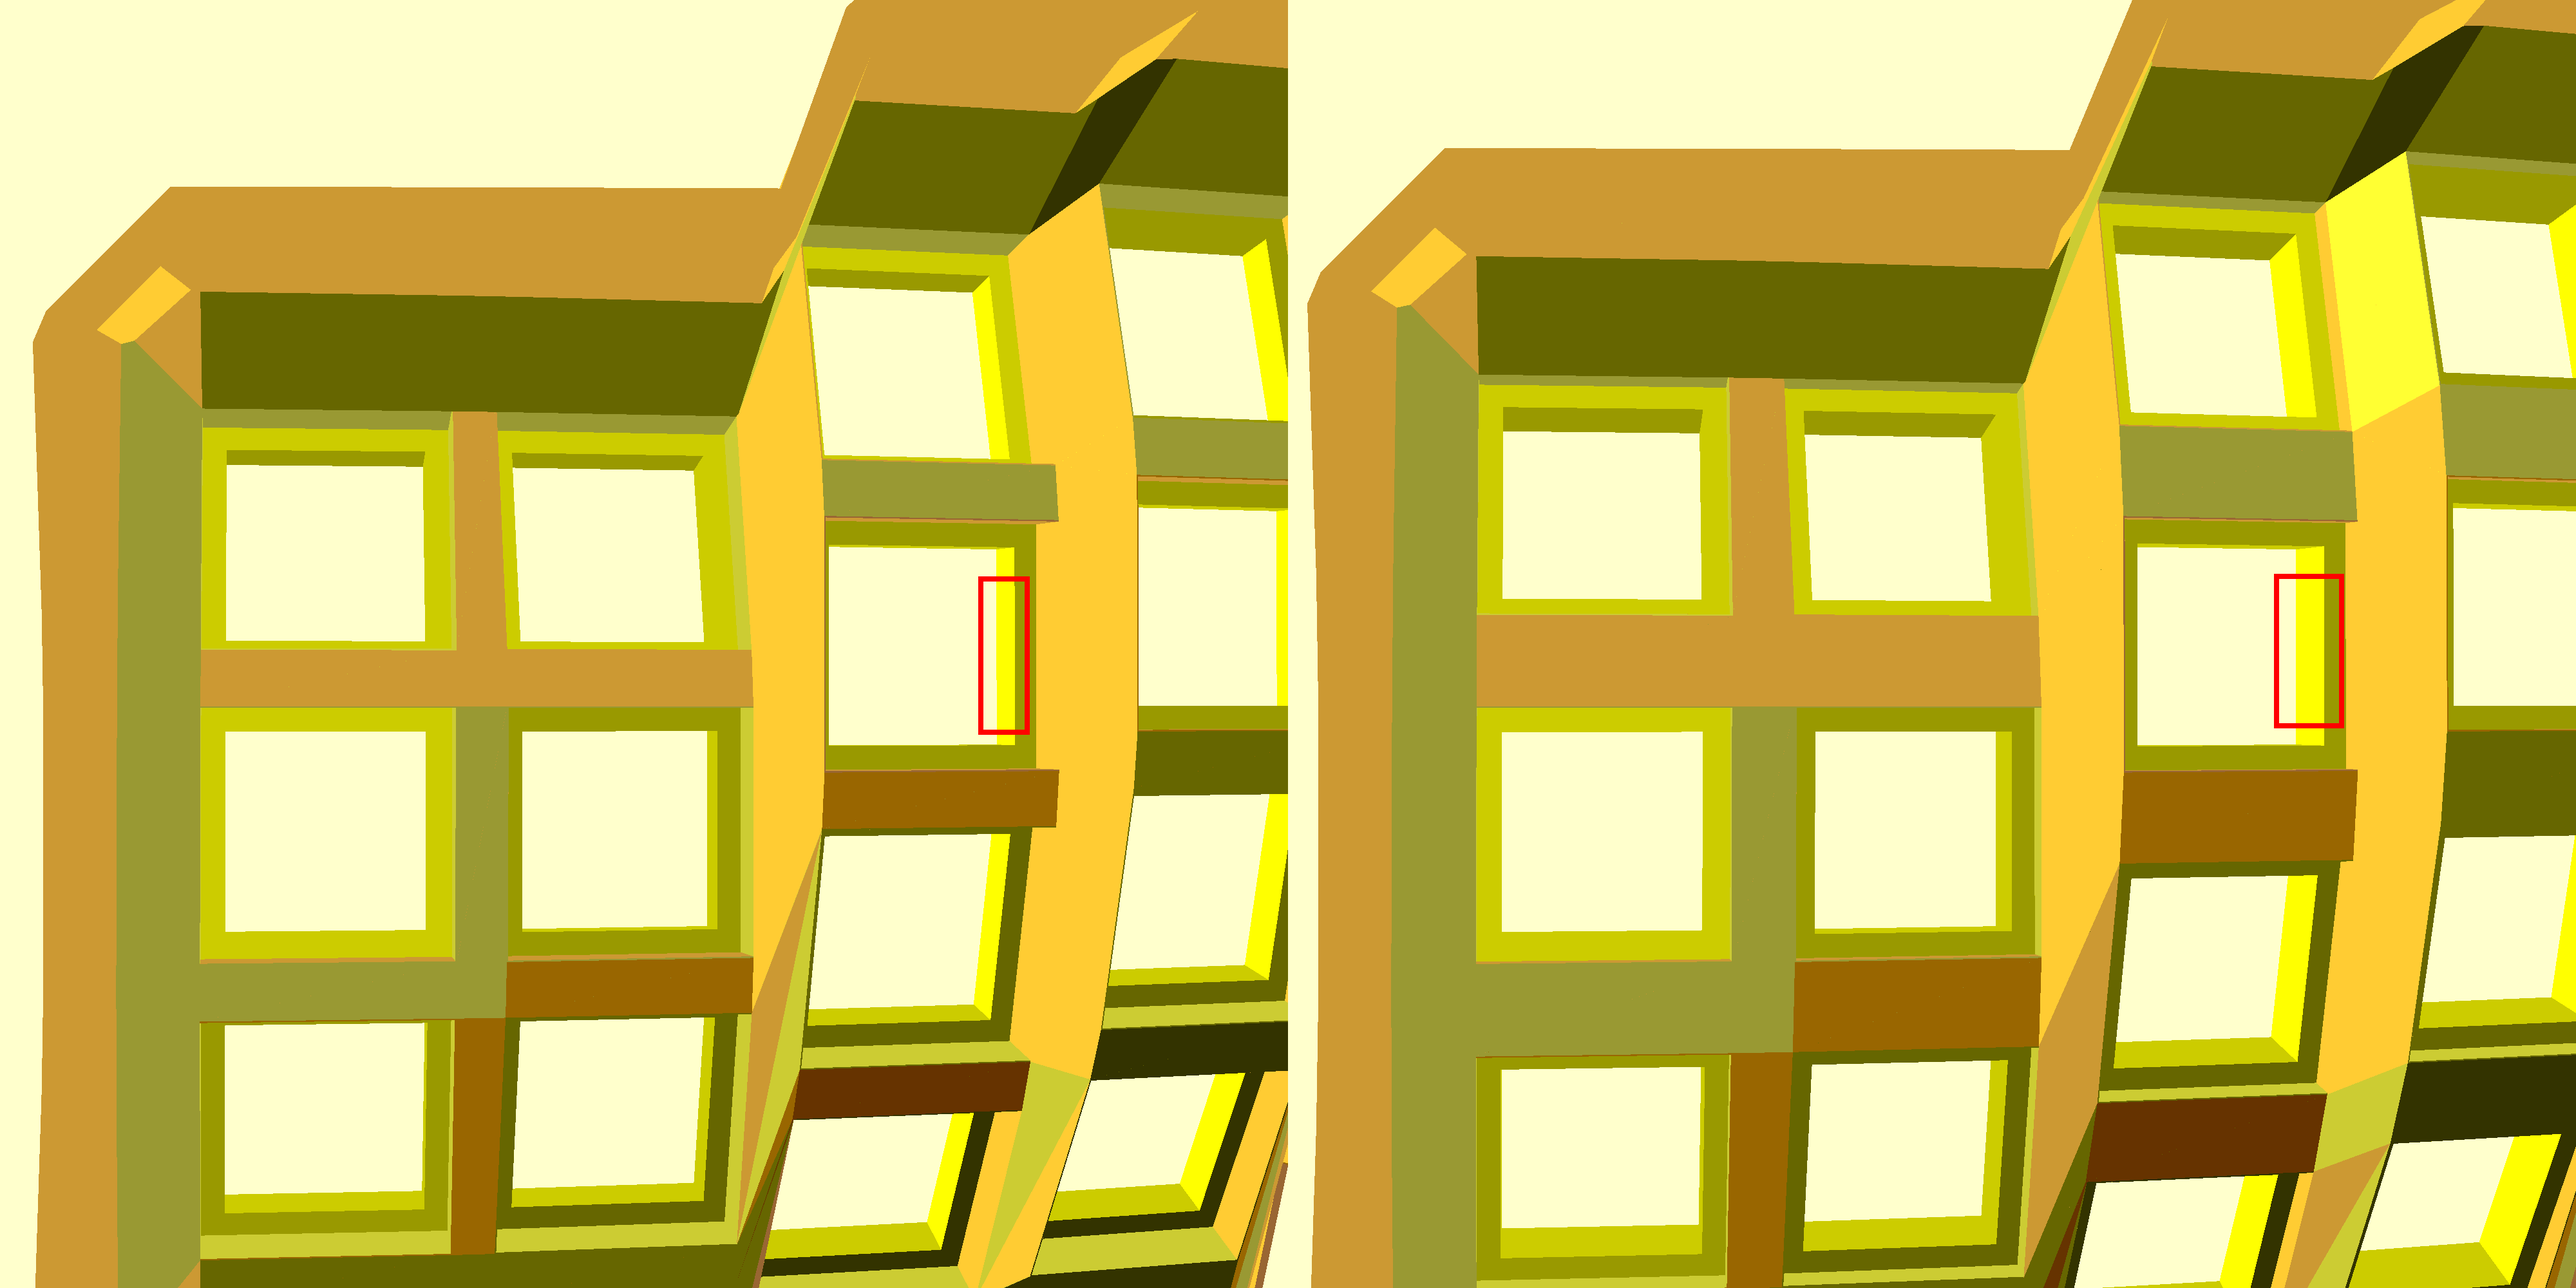
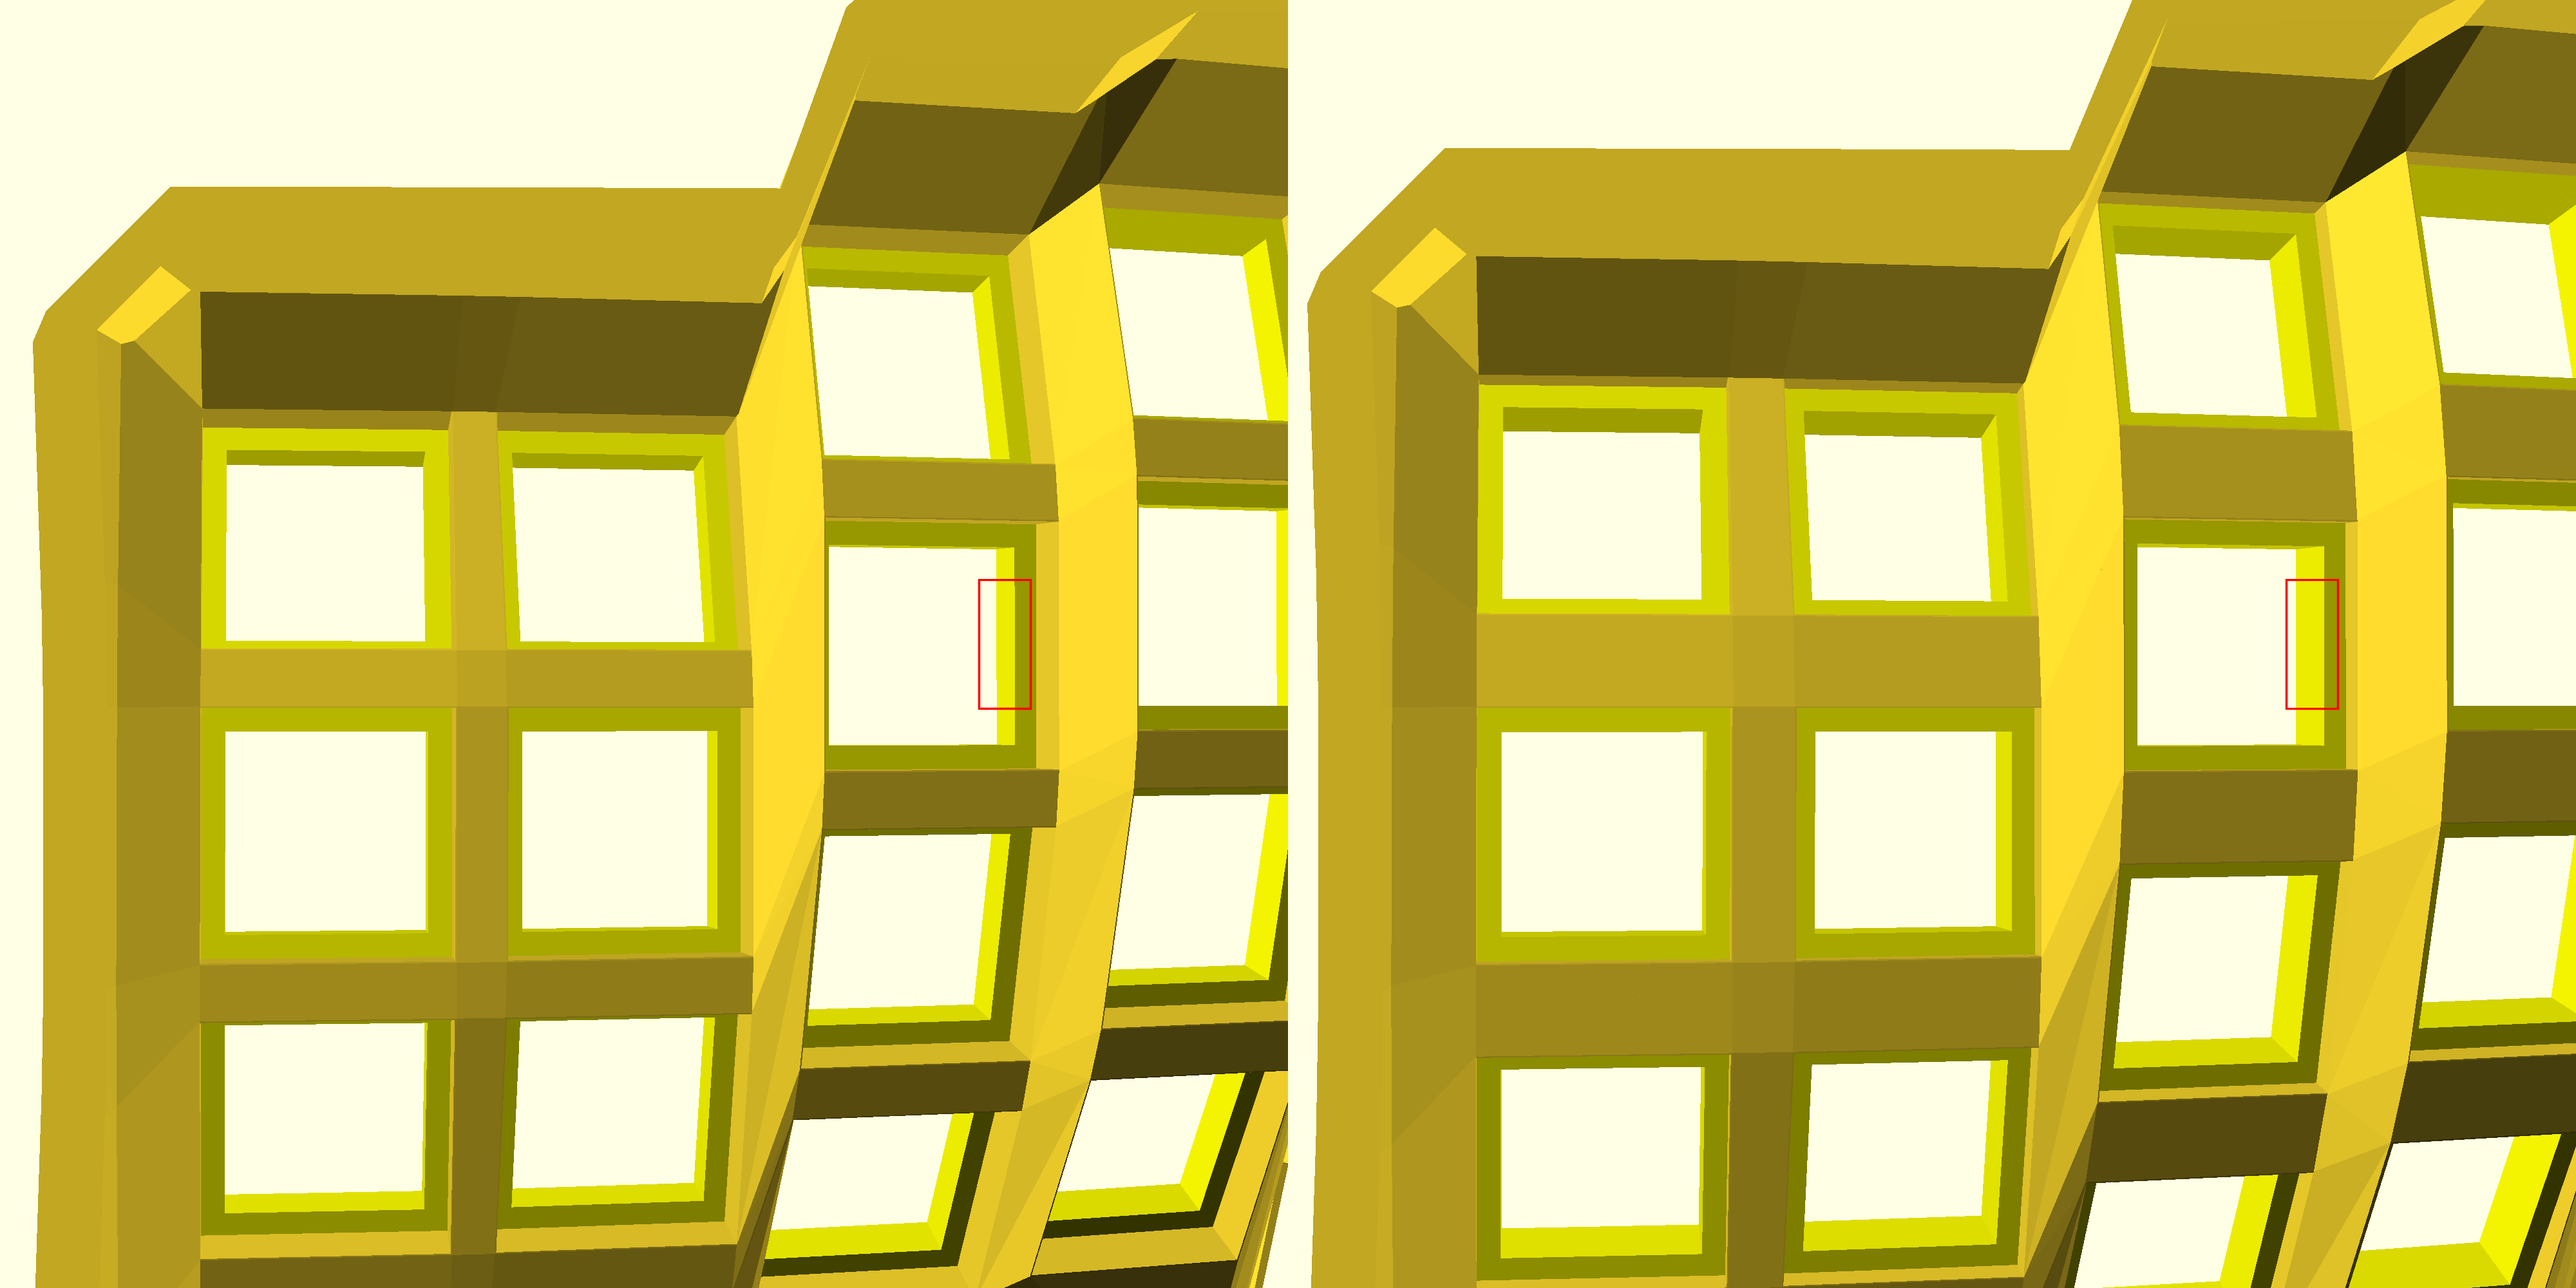
High difference of switch type mx-snap-in and choc cmp image using Imagemagick

diff --git a/merge-image-for-cmp.py b/merge-image-for-cmp.py
@@ -13,3 +13,9 @@ for file in os.listdir('manuform'):
         output = file.replace(".png", "-cmp.png")
         print(f"merge {file} and {baseImg} to {output}")
         os.system(f"montage -geometry +0+0 manuform/{file} manuform/{baseImg} manuform/{output}".replace("(", "\(").replace(")", "\)"))
+
+        if "mx-snap-in" in file:
+            os.system(f"convert -fill none -stroke red -strokewidth 3 -draw 'rectangle 1580,950 1630,1050 rectangle 3580,950 3630,1050' manuform/{output} manuform/{output}".replace("(", "\(").replace(")", "\)"))
+
+        if "choc" in file:
+            os.system(f"convert -fill none -stroke red -strokewidth 3 -draw 'rectangle 1520,900 1600,1100 rectangle 3550,900 3630,1100' manuform/{output} manuform/{output}".replace("(", "\(").replace(")", "\)"))
